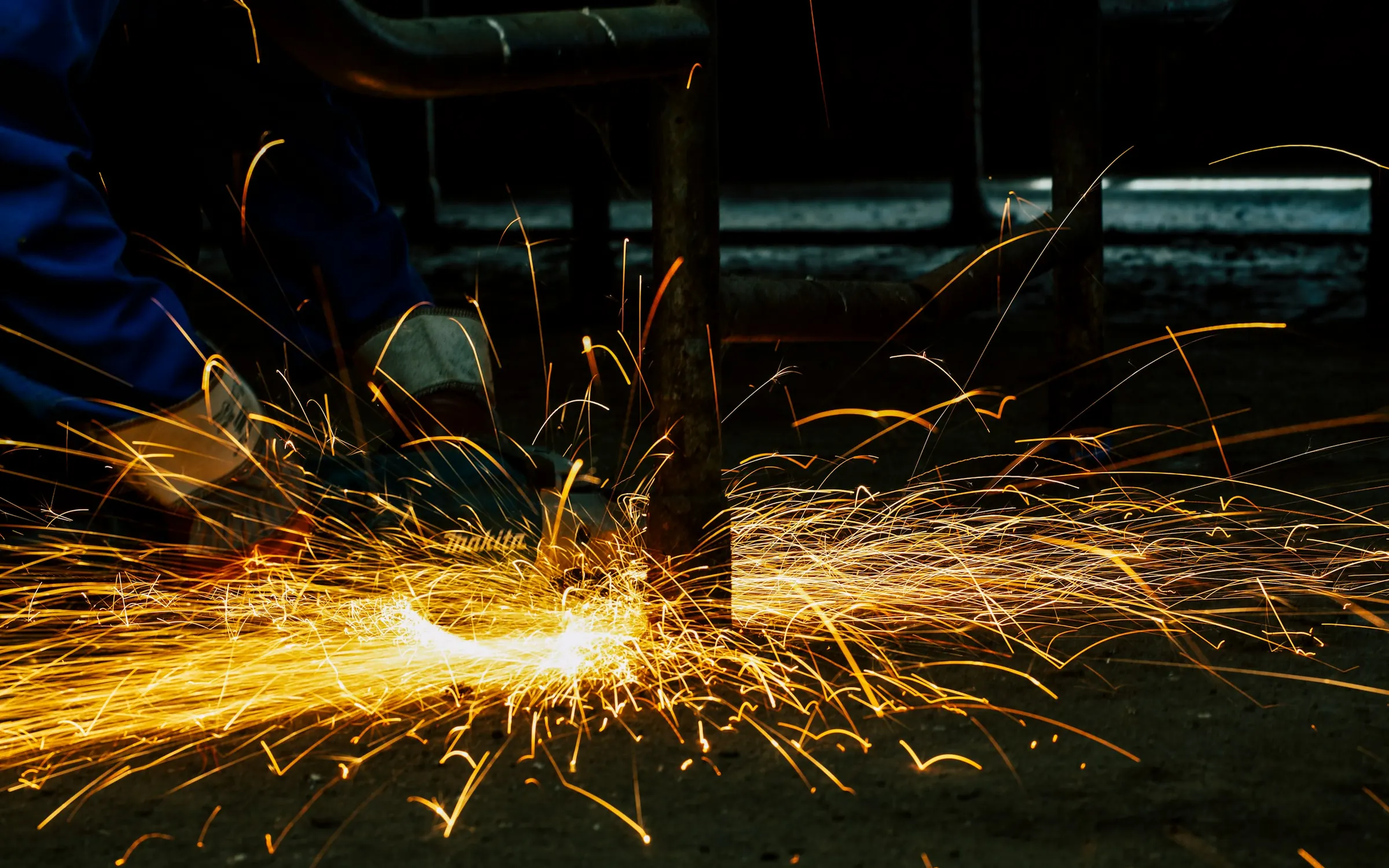
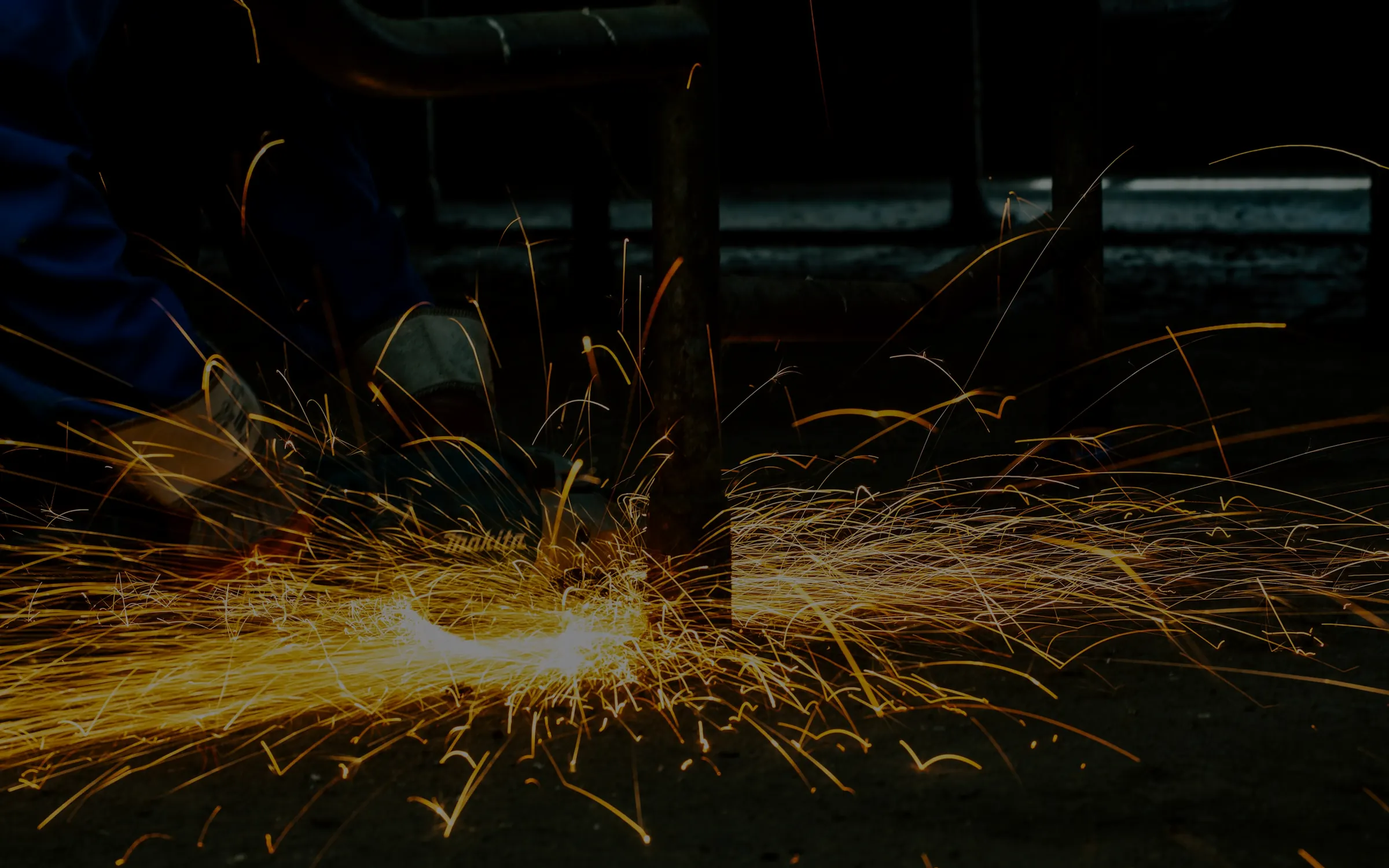
Compress service hero image (hero-meulage-etincelles.webp)

diff --git a/it/service.html b/it/service.html
@@ -388,7 +388,7 @@
 <div class="w-layout-hflex rt-overview-main-wrapper-v1">
 <div class="w-layout-vflex rt-overview-left-wrapper-v1">
 <div class="rt-overview-left-image-mask rt-mask-v9">
-<img alt="" data-w-id="a5815e60-2c6d-dd12-6274-7d87c0dddc21" loading="lazy" sizes="(max-width: 767px) 100vw, 620px" src="https://cdn.prod.website-files.com/69a196b4902215f53ac6be15/69b8ecedb17c7e9cd72eec75_man-working-roof-with-drill%201.webp" srcset="https://cdn.prod.website-files.com/69a196b4902215f53ac6be15/69b8ecedb17c7e9cd72eec75_man-working-roof-with-drill%201-p-500.webp 500w, https://cdn.prod.website-files.com/69a196b4902215f53ac6be15/69b8ecedb17c7e9cd72eec75_man-working-roof-with-drill%201-p-800.webp 800w, https://cdn.prod.website-files.com/69a196b4902215f53ac6be15/69b8ecedb17c7e9cd72eec75_man-working-roof-with-drill%201-p-1080.webp 1080w, https://cdn.prod.website-files.com/69a196b4902215f53ac6be15/69b8ecedb17c7e9cd72eec75_man-working-roof-with-drill%201.webp 1240w" style="opacity:0" width="620"/>
+<img alt="Fabbro che forgia un pezzo di metallo sull’incudine" data-w-id="a5815e60-2c6d-dd12-6274-7d87c0dddc21" loading="lazy" src="../assets/images/service/forgeron-enclume.webp" style="opacity:0" width="620"/>
 </div>
 <div class="w-layout-hflex rt-overview-left-bottom-v1" data-w-id="122f7a91-01e2-02e1-84e6-60618f285ab0" style="opacity:0">
 <div class="w-layout-hflex rt-overview-botom-image-wrapper-v1">

diff --git a/service.html b/service.html
@@ -388,7 +388,7 @@
 <div class="w-layout-hflex rt-overview-main-wrapper-v1">
 <div class="w-layout-vflex rt-overview-left-wrapper-v1">
 <div class="rt-overview-left-image-mask rt-mask-v9">
-<img alt="" data-w-id="a5815e60-2c6d-dd12-6274-7d87c0dddc21" loading="lazy" sizes="(max-width: 767px) 100vw, 620px" src="https://cdn.prod.website-files.com/69a196b4902215f53ac6be15/69b8ecedb17c7e9cd72eec75_man-working-roof-with-drill%201.webp" srcset="https://cdn.prod.website-files.com/69a196b4902215f53ac6be15/69b8ecedb17c7e9cd72eec75_man-working-roof-with-drill%201-p-500.webp 500w, https://cdn.prod.website-files.com/69a196b4902215f53ac6be15/69b8ecedb17c7e9cd72eec75_man-working-roof-with-drill%201-p-800.webp 800w, https://cdn.prod.website-files.com/69a196b4902215f53ac6be15/69b8ecedb17c7e9cd72eec75_man-working-roof-with-drill%201-p-1080.webp 1080w, https://cdn.prod.website-files.com/69a196b4902215f53ac6be15/69b8ecedb17c7e9cd72eec75_man-working-roof-with-drill%201.webp 1240w" style="opacity:0" width="620"/>
+<img alt="Ferronnier forgeant une pièce de métal sur l’enclume" data-w-id="a5815e60-2c6d-dd12-6274-7d87c0dddc21" loading="lazy" src="assets/images/service/forgeron-enclume.webp" style="opacity:0" width="620"/>
 </div>
 <div class="w-layout-hflex rt-overview-left-bottom-v1" data-w-id="122f7a91-01e2-02e1-84e6-60618f285ab0" style="opacity:0">
 <div class="w-layout-hflex rt-overview-botom-image-wrapper-v1">

diff --git a/en/service.html b/en/service.html
@@ -388,7 +388,7 @@
 <div class="w-layout-hflex rt-overview-main-wrapper-v1">
 <div class="w-layout-vflex rt-overview-left-wrapper-v1">
 <div class="rt-overview-left-image-mask rt-mask-v9">
-<img alt="" data-w-id="a5815e60-2c6d-dd12-6274-7d87c0dddc21" loading="lazy" sizes="(max-width: 767px) 100vw, 620px" src="https://cdn.prod.website-files.com/69a196b4902215f53ac6be15/69b8ecedb17c7e9cd72eec75_man-working-roof-with-drill%201.webp" srcset="https://cdn.prod.website-files.com/69a196b4902215f53ac6be15/69b8ecedb17c7e9cd72eec75_man-working-roof-with-drill%201-p-500.webp 500w, https://cdn.prod.website-files.com/69a196b4902215f53ac6be15/69b8ecedb17c7e9cd72eec75_man-working-roof-with-drill%201-p-800.webp 800w, https://cdn.prod.website-files.com/69a196b4902215f53ac6be15/69b8ecedb17c7e9cd72eec75_man-working-roof-with-drill%201-p-1080.webp 1080w, https://cdn.prod.website-files.com/69a196b4902215f53ac6be15/69b8ecedb17c7e9cd72eec75_man-working-roof-with-drill%201.webp 1240w" style="opacity:0" width="620"/>
+<img alt="Ironworker forging a piece of metal on the anvil" data-w-id="a5815e60-2c6d-dd12-6274-7d87c0dddc21" loading="lazy" src="../assets/images/service/forgeron-enclume.webp" style="opacity:0" width="620"/>
 </div>
 <div class="w-layout-hflex rt-overview-left-bottom-v1" data-w-id="122f7a91-01e2-02e1-84e6-60618f285ab0" style="opacity:0">
 <div class="w-layout-hflex rt-overview-botom-image-wrapper-v1">

diff --git a/assets/i18n/translations.js b/assets/i18n/translations.js
@@ -1886,4 +1886,5 @@ window.SITE_TRANSLATIONS = {
   "Nous restons disponibles après le chantier pour les réglages, l'entretien ou une remise en peinture.": { en: "We stay available after the job for adjustments, maintenance or repainting.", it: "Restiamo disponibili dopo il cantiere per regolazioni, manutenzione o riverniciatura." },
   "De la barre de métal brut à l'ouvrage posé chez vous": { en: "From raw metal bar to finished piece in your home", it: "Dalla barra di metallo grezzo all'opera posata a casa tua" },
   "Un projet de ferronnerie en tête ? Parlons-en.": { en: "Have an ironwork project in mind? Let's talk.", it: "Hai in mente un progetto in ferro battuto? Parliamone." },
+  "Ferronnier forgeant une pièce de métal sur l’enclume": { en: "Ironworker forging a piece of metal on the anvil", it: "Fabbro che forgia un pezzo di metallo sull’incudine" },
 };

diff --git a/assets/images/service/SOURCES.md b/assets/images/service/SOURCES.md
@@ -1,0 +1,9 @@
+# Service page image sources
+
+| Local image | Source | License |
+| --- | --- | --- |
+| `hero-meulage-etincelles.webp` | https://unsplash.com/photos/EvLFiUYJAvg (cropped, darkened for text contrast) | [Unsplash License](https://unsplash.com/license) |
+| `forgeron-enclume.webp` | https://unsplash.com/photos/0Ue1iCz32KM | [Unsplash License](https://unsplash.com/license) |
+| `atelier-ferronnerie-poster.jpg` | Frame from `assets/videos/atelier-ferronnerie.mp4` | Site's own video |
+
+These stock photos are illustrations and do not show projects by La Ferronnerie du Rouret.
